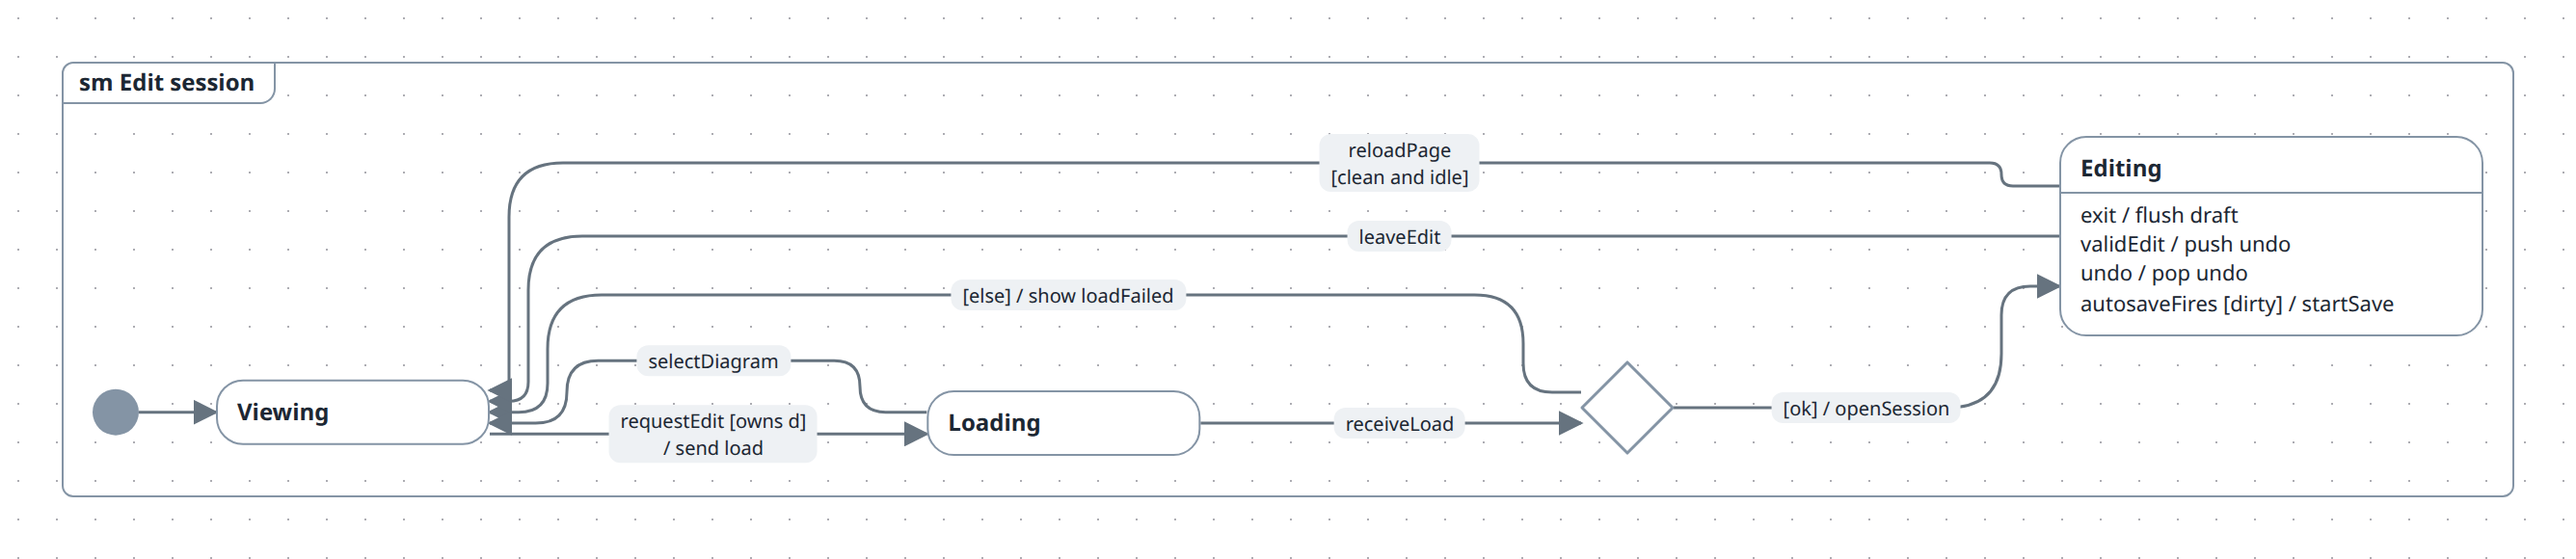
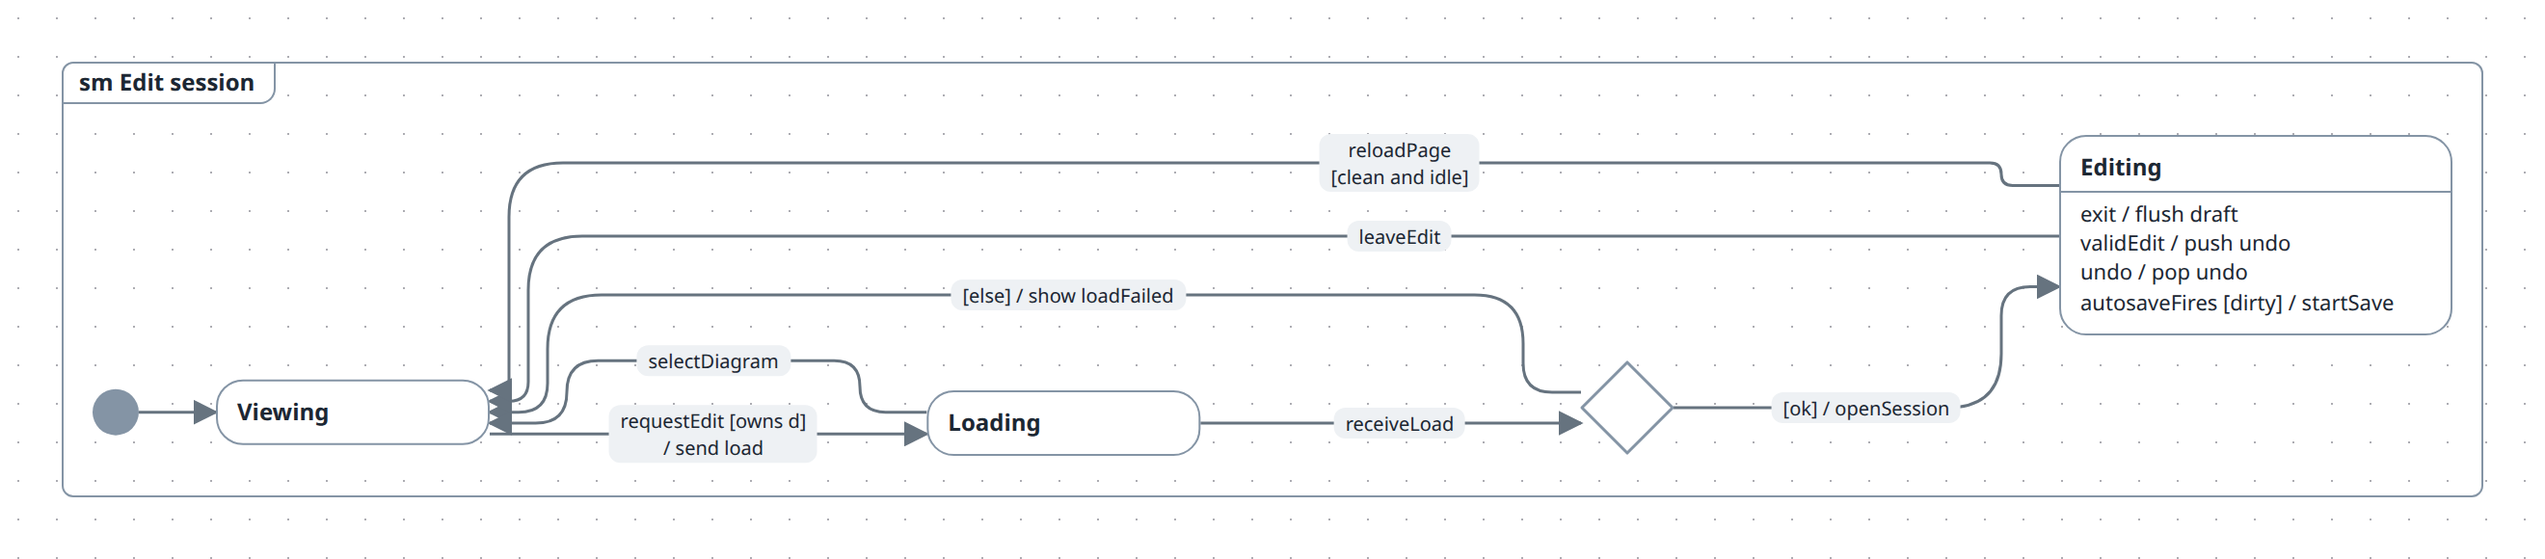
fix(renderer): a state is never laid out narrower than its box is drawn

diff --git a/packages/renderer/src/layout/size-hints.ts b/packages/renderer/src/layout/size-hints.ts
@@ -6,10 +6,10 @@ import {
   type DiagramNode,
   type LayoutOverlay,
 } from '@diagc/core/internal';
-import { FORCED_SIZE_SHAPES } from './box-size';
+import { BOX_SIDES, estimateBoxSize, FORCED_SIZE_SHAPES, textWidth } from './box-size';
 import type { SizeHint } from './layout-graph';
 import { CAPTION_HEIGHT, captionWidth, estimateLabelSize, glyphCaptionSize } from '../node/label-size';
-import { behaviorCompartmentHeight, behaviorWidth } from '../node/behavior-lines';
+import { BEHAVIOR_PX, behaviorCompartmentHeight, behaviorRows } from '../node/behavior-lines';
 import { tableSize } from '../node/table-ports';
 import type { NotationProfile } from '../notations';
 import type { Registry, TypeStyle } from '../registry';
@@ -33,19 +33,21 @@ const tableRule: Rule = (n, ctx) => {
 };
 
 /** A state's behaviours are drawn under its name, so a leaf state grows with them: the
- * name's box, then the divider and a row a line at the behaviours' own smaller font,
- * as wide as the longest line, since the lines never wrap (StateBody). The box is
- * drawn at its content's height, so this must be that height, not more: arrows meet
- * the box the layout reserved. A state without any, or with a saved size, takes the
- * usual rules. A folded composite draws them the same way, so withBoxSizes keeps this
- * hint over its folded box where it is the larger; an open one lists them under
+ * box its name alone would be drawn as, then the divider and a row a line, as wide as
+ * the longest line, since the lines never wrap (StateBody). The box is drawn at its
+ * content's height, and never narrower than this width (node-frame.ts), so arrows meet
+ * it where the layout put its sides. A state without any, or with a saved size, takes
+ * the usual rules. A folded composite draws them the same way, so withBoxSizes keeps
+ * this hint over its folded box where it is the larger; an open one lists them under
  * its header, in room its padding makes (containerPad), and this hint goes unused. */
 const stateRule: Rule = (n, ctx) => {
   if (n.type !== SM_STATE_TYPE || ctx.sizes?.[n.id] !== undefined) return undefined;
   const behaviors = behaviorCompartmentHeight(n);
   if (behaviors === 0) return undefined;
-  const name = estimateLabelSize(n.name, n.fontScale);
-  return { width: Math.max(name.width, behaviorWidth(n)), height: name.height + behaviors };
+  const name = n.name.split('\n').reduce((longest, l) => (l.length > longest.length ? l : longest), '');
+  const box = estimateBoxSize({ name, fontScale: n.fontScale });
+  const widest = Math.max(...behaviorRows(n).map((row) => textWidth(row, BEHAVIOR_PX)));
+  return { width: Math.max(box.width, Math.ceil(widest) + BOX_SIDES), height: box.height + behaviors };
 };
 
 /** Multiline or rich leaf box labels: an estimated footprint, so elk does not

diff --git a/packages/renderer/src/node/behavior-lines.ts b/packages/renderer/src/node/behavior-lines.ts
@@ -10,25 +10,18 @@ export const STATE_DIVIDER_HEIGHT = 9;
 /** one behaviour line: styles.css .dg-sm-behaviors, 11px at a line height of 1.4 */
 const BEHAVIOR_LINE_HEIGHT = 15.4;
 
-/** One behaviour character at 11px, leaning wide. The box takes the layout's width as
- * a floor (node-frame.ts), so an estimate past the drawn line only leaves room on its
- * right, while one short of it lets the line push the box past where its arrows meet it. */
-const BEHAVIOR_CHAR = 6;
-/** a box's padding and border across: styles.css .dg-node, 10px a side and 1px of border */
-const BOX_SIDES = 22;
+/** the behaviours' font size: styles.css .dg-sm-behaviors */
+export const BEHAVIOR_PX = 11;
 
-/** The width a state's longest behaviour line takes in its box, padding included: the
- * lines never wrap (.dg-sm-behavior), so the box grows to it. 0 for a state with none. */
-export function behaviorWidth(node: Pick<DiagramNode, 'behaviors'>): number {
-  const rows = behaviorLines(node).flatMap((line) => line.split('\n'));
-  if (rows.length === 0) return 0;
-  return Math.round(Math.max(...rows.map((r) => [...r].length)) * BEHAVIOR_CHAR + BOX_SIDES);
-}
+/** A state's behaviours as the rows they are drawn on: a line each, never wrapped
+ * (.dg-sm-behavior), and a line break in one starts another row. */
+export const behaviorRows = (node: Pick<DiagramNode, 'behaviors'>): string[] =>
+  behaviorLines(node).flatMap((line) => line.split('\n'));
 
 /** The height the behaviours compartment takes, under a leaf state's name or an open
  * composite's header: the divider and a row a line, 0 for a state with none. An open
  * composite's top padding grows by it (containerPad), so the substates start below the list. */
 export function behaviorCompartmentHeight(node: Pick<DiagramNode, 'behaviors'>): number {
-  const lines = behaviorLines(node).flatMap((line) => line.split('\n'));
+  const lines = behaviorRows(node);
   return lines.length === 0 ? 0 : Math.ceil(STATE_DIVIDER_HEIGHT + lines.length * BEHAVIOR_LINE_HEIGHT);
 }

diff --git a/packages/renderer/src/layout/size-hints.test.ts b/packages/renderer/src/layout/size-hints.test.ts
@@ -145,7 +145,19 @@ describe('sizeHintFor, a state-machine state', () => {
     ];
     const hint = sizeHintFor(node({ type: 'sm-state', name: 'VALIDATION_RETRYING', behaviors }), plain)!;
     expect(hint.width).toBeGreaterThanOrEqual(364);
+    // leaning wide leaves room on the right of the line; not a column of it
+    expect(hint.width).toBeLessThanOrEqual(410);
     expect(Math.abs(hint.height - 58)).toBeLessThanOrEqual(2);
+  });
+
+  it('is never narrower than a box is drawn, however short its lines', () => {
+    // .dg-node's 120px minimum is on its content: with padding and border no box is under 142
+    const behaviors = [
+      { trigger: 'entry', effect: 'attempt++' },
+      { trigger: 'do', effect: 'open socket' },
+    ];
+    const hint = sizeHintFor(node({ type: 'sm-state', name: 'Connecting', behaviors }), plain)!;
+    expect(hint.width).toBeGreaterThanOrEqual(142);
   });
 
   it('leaves a state with a saved size to that size', () => {

diff --git a/packages/renderer/src/layout/box-size.ts b/packages/renderer/src/layout/box-size.ts
@@ -89,6 +89,8 @@ const MIN_CONTENT_WIDTH = 120;
 const PAD_X = 20;
 const PAD_Y = 16;
 const BORDER = 2;
+/** a box's padding and border across, around its content */
+export const BOX_SIDES = PAD_X + BORDER;
 const PILL_EXTRA_PAD_X = 12; // .dg-shape-pill: padding 8px 16px
 const SIGNAL_EXTRA_PAD_X = 10; // send/receive-signal: one side padded to 20px
 const PERSON_HEAD = 14; // .dg-shape-person: margin-top 14px, inside the RF wrapper
